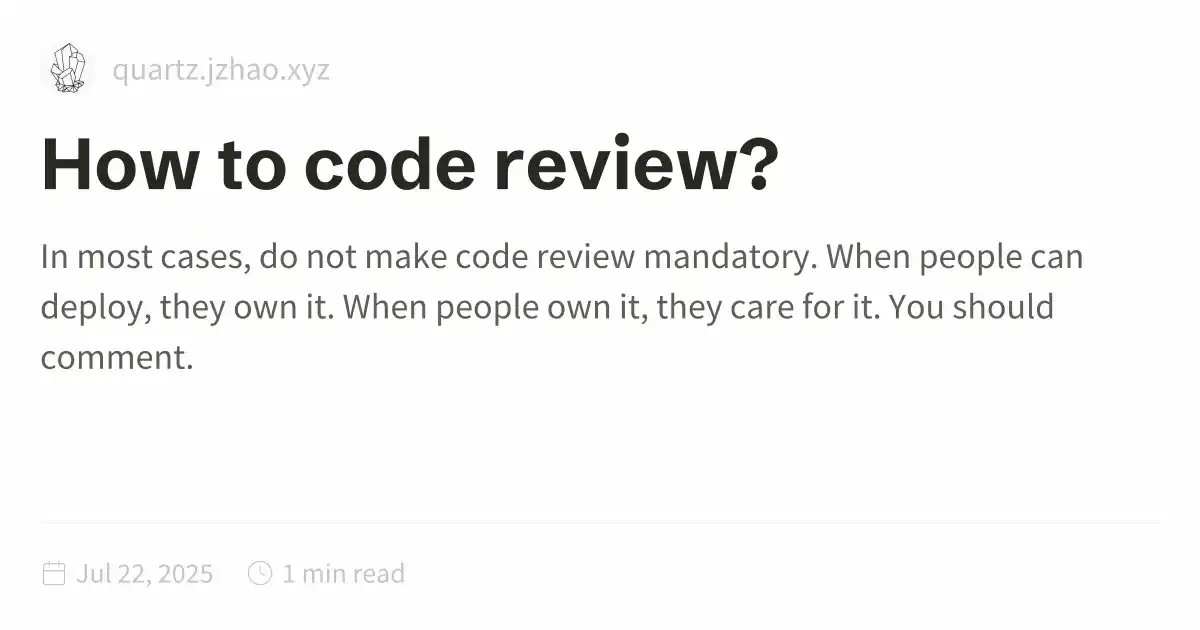
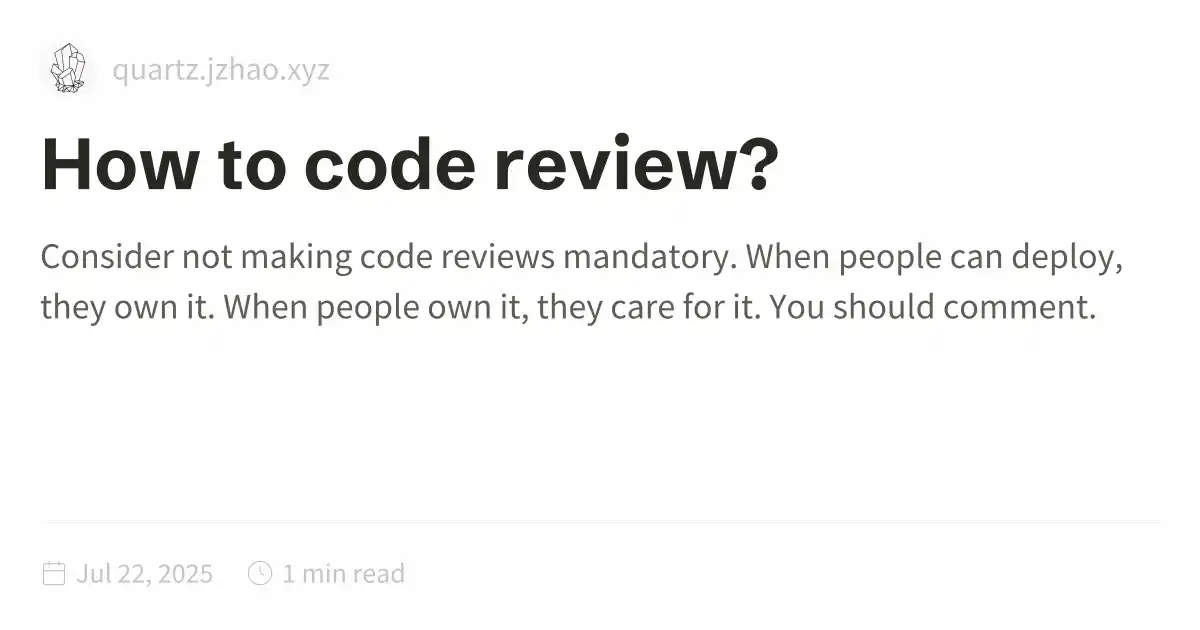
Quartz sync: Aug 19, 2025, 5:13 AM

Changed region(s): [[0.0308, 0.3921, 0.925, 0.5127], [0.0308, 0.5429, 0.1542, 0.6032]]

diff --git a/public/How-to-code-review.html b/public/How-to-code-review.html
@@ -1,5 +1,5 @@
 <!DOCTYPE html>
-<html lang="en"><head><title>How to code review?</title><meta charset="utf-8"/><link rel="preconnect" href="https://fonts.googleapis.com"/><link rel="preconnect" href="https://fonts.gstatic.com"/><link rel="stylesheet" href="https://fonts.googleapis.com/css2?family=Schibsted Grotesk:wght@400;700&amp;family=Source Sans Pro:ital,wght@0,400;0,600;1,400;1,600&amp;family=IBM Plex Mono:wght@400;600&amp;display=swap"/><link rel="preconnect" href="https://cdnjs.cloudflare.com" crossorigin="anonymous"/><meta name="viewport" content="width=device-width, initial-scale=1.0"/><meta name="og:site_name" content="Essays"/><meta property="og:title" content="How to code review?"/><meta property="og:type" content="website"/><meta name="twitter:card" content="summary_large_image"/><meta name="twitter:title" content="How to code review?"/><meta name="twitter:description" content="In most cases, do not make code review mandatory. When people can deploy, they own it. When people own it, they care for it. You should comment."/><meta property="og:description" content="In most cases, do not make code review mandatory. When people can deploy, they own it. When people own it, they care for it. You should comment."/><meta property="og:image:alt" content="In most cases, do not make code review mandatory. When people can deploy, they own it. When people own it, they care for it. You should comment."/><meta property="twitter:domain" content="quartz.jzhao.xyz"/><meta property="og:url" content="https://quartz.jzhao.xyz/How-to-code-review"/><meta property="twitter:url" content="https://quartz.jzhao.xyz/How-to-code-review"/><link rel="icon" href="./static/icon.png"/><meta name="description" content="In most cases, do not make code review mandatory. When people can deploy, they own it. When people own it, they care for it. You should comment."/><meta name="generator" content="Quartz"/><link href="./index.css" rel="stylesheet" type="text/css" spa-preserve/><style>.expand-button {
+<html lang="en"><head><title>How to code review?</title><meta charset="utf-8"/><link rel="preconnect" href="https://fonts.googleapis.com"/><link rel="preconnect" href="https://fonts.gstatic.com"/><link rel="stylesheet" href="https://fonts.googleapis.com/css2?family=Schibsted Grotesk:wght@400;700&amp;family=Source Sans Pro:ital,wght@0,400;0,600;1,400;1,600&amp;family=IBM Plex Mono:wght@400;600&amp;display=swap"/><link rel="preconnect" href="https://cdnjs.cloudflare.com" crossorigin="anonymous"/><meta name="viewport" content="width=device-width, initial-scale=1.0"/><meta name="og:site_name" content="Essays"/><meta property="og:title" content="How to code review?"/><meta property="og:type" content="website"/><meta name="twitter:card" content="summary_large_image"/><meta name="twitter:title" content="How to code review?"/><meta name="twitter:description" content="Consider not making code reviews mandatory. When people can deploy, they own it. When people own it, they care for it. You should comment."/><meta property="og:description" content="Consider not making code reviews mandatory. When people can deploy, they own it. When people own it, they care for it. You should comment."/><meta property="og:image:alt" content="Consider not making code reviews mandatory. When people can deploy, they own it. When people own it, they care for it. You should comment."/><meta property="twitter:domain" content="quartz.jzhao.xyz"/><meta property="og:url" content="https://quartz.jzhao.xyz/How-to-code-review"/><meta property="twitter:url" content="https://quartz.jzhao.xyz/How-to-code-review"/><link rel="icon" href="./static/icon.png"/><meta name="description" content="Consider not making code reviews mandatory. When people can deploy, they own it. When people own it, they care for it. You should comment."/><meta name="generator" content="Quartz"/><link href="./index.css" rel="stylesheet" type="text/css" spa-preserve/><style>.expand-button {
   position: absolute;
   display: flex;
   float: right;
@@ -116,20 +116,37 @@ pre:hover > .expand-button {
   padding: 0 12px;
   font-size: 14px;
 }
[2 lines of base64/hex data omitted]
 When people can deploy, they own it.<br/>
 When people own it, they care for it.</p>
 <p>You should comment.<br/>
-Reviewing is a chance to learn together.<br/>
-Don’t command, suggest and explain why.<br/>
-Do not comment on formatting, automate it.</p>
-<p>Make a big effort to post all comments at once.</p>
-<p>In most cases, you should approve.<br/>
-Does this change make the system better? Then approve it.<br/>
-Does this change add a feature?  Then approve it.<br/>
-Does this change fix a bug? Then approve it.<br/>
-Do not slow down productivity for an opinion.</p>
-<p>The ultimate code review catches something that would break.<br/>
+Reviewing is a chance to learn together.</p>
+<p>Suggest, don’t command.<br/>
+Explain your reasoning.<br/>
+Give examples.<br/>
+Suggest a code change.</p>
+<p>Don’t comment on formatting.<br/>
+Automate it.</p>
+<p>Batch your feedback.<br/>
+Post all comments at once.<br/>
+Context switching kills flow.</p>
+<p>Has the change been tested (even manually)?<br/>
+Approve.</p>
+<p>Does it improve the system?<br/>
+Approve.</p>
+<p>Does it add value?<br/>
+Approve.</p>
+<p>Does it fix something broken?<br/>
+Approve.</p>
+<p>Don’t block progress for style opinions.<br/>
+Perfectionism slows everyone down.</p>
+<p>Trust your team.</p>
+<p>Pick your battles.</p>
+<p>Reviews aren’t about control.<br/>
+They are about catching disasters.<br/>
+They are about learning from each other.</p>
+<p>The best reviews catch real bugs.<br/>
+Things that would actually break.<br/>
 Be a hero, find a real bug.</p></article><hr/><div class="page-footer"></div></div><div class="right sidebar"></div><div class="spacer"></div></div></div></body><script type="application/javascript">function n(){let t=this.parentElement;t.classList.toggle("is-collapsed");let e=t.getElementsByClassName("callout-content")[0];if(!e)return;let l=t.classList.contains("is-collapsed");e.style.gridTemplateRows=l?"0fr":"1fr"}function c(){let t=document.getElementsByClassName("callout is-collapsible");for(let e of t){let l=e.getElementsByClassName("callout-title")[0],s=e.getElementsByClassName("callout-content")[0];if(!l||!s)continue;l.addEventListener("click",n),window.addCleanup(()=>l.removeEventListener("click",n));let o=e.classList.contains("is-collapsed");s.style.gridTemplateRows=o?"0fr":"1fr"}}document.addEventListener("nav",c);
 </script><script type="module">function f(i,e){if(!i)return;function r(o){o.target===this&&(o.preventDefault(),o.stopPropagation(),e())}function t(o){o.key.startsWith("Esc")&&(o.preventDefault(),e())}i?.addEventListener("click",r),window.addCleanup(()=>i?.removeEventListener("click",r)),document.addEventListener("keydown",t),window.addCleanup(()=>document.removeEventListener("keydown",t))}function y(i){for(;i.firstChild;)i.removeChild(i.firstChild)}var h=class{constructor(e,r){this.container=e;this.content=r;this.setupEventListeners(),this.setupNavigationControls(),this.resetTransform()}isDragging=!1;startPan={x:0,y:0};currentPan={x:0,y:0};scale=1;MIN_SCALE=.5;MAX_SCALE=3;cleanups=[];setupEventListeners(){let e=this.onMouseDown.bind(this),r=this.onMouseMove.bind(this),t=this.onMouseUp.bind(this),o=this.resetTransform.bind(this);this.container.addEventListener("mousedown",e),document.addEventListener("mousemove",r),document.addEventListener("mouseup",t),window.addEventListener("resize",o),this.cleanups.push(()=>this.container.removeEventListener("mousedown",e),()=>document.removeEventListener("mousemove",r),()=>document.removeEventListener("mouseup",t),()=>window.removeEventListener("resize",o))}cleanup(){for(let e of this.cleanups)e()}setupNavigationControls(){let e=document.createElement("div");e.className="mermaid-controls";let r=this.createButton("+",()=>this.zoom(.1)),t=this.createButton("-",()=>this.zoom(-.1)),o=this.createButton("Reset",()=>this.resetTransform());e.appendChild(t),e.appendChild(o),e.appendChild(r),this.container.appendChild(e)}createButton(e,r){let t=document.createElement("button");return t.textContent=e,t.className="mermaid-control-button",t.addEventListener("click",r),window.addCleanup(()=>t.removeEventListener("click",r)),t}onMouseDown(e){e.button===0&&(this.isDragging=!0,this.startPan={x:e.clientX-this.currentPan.x,y:e.clientY-this.currentPan.y},this.container.style.cursor="grabbing")}onMouseMove(e){this.isDragging&&(e.preventDefault(),this.currentPan={x:e.clientX-this.startPan.x,y:e.clientY-this.startPan.y},this.updateTransform())}onMouseUp(){this.isDragging=!1,this.container.style.cursor="grab"}zoom(e){let r=Math.min(Math.max(this.scale+e,this.MIN_SCALE),this.MAX_SCALE),t=this.content.getBoundingClientRect(),o=t.width/2,n=t.height/2,c=r-this.scale;this.currentPan.x-=o*c,this.currentPan.y-=n*c,this.scale=r,this.updateTransform()}updateTransform(){this.content.style.transform=`translate(${this.currentPan.x}px, ${this.currentPan.y}px) scale(${this.scale})`}resetTransform(){this.scale=1;let e=this.content.querySelector("svg");this.currentPan={x:e.getBoundingClientRect().width/2,y:e.getBoundingClientRect().height/2},this.updateTransform()}},C=["--secondary","--tertiary","--gray","--light","--lightgray","--highlight","--dark","--darkgray","--codeFont"],E;document.addEventListener("nav",async()=>{let e=document.querySelector(".center").querySelectorAll("code.mermaid");if(e.length===0)return;E||=await import("https://cdnjs.cloudflare.com/ajax/libs/mermaid/11.4.0/mermaid.esm.min.mjs");let r=E.default,t=new WeakMap;for(let n of e)t.set(n,n.innerText);async function o(){for(let s of e){s.removeAttribute("data-processed");let a=t.get(s);a&&(s.innerHTML=a)}let n=C.reduce((s,a)=>(s[a]=window.getComputedStyle(document.documentElement).getPropertyValue(a),s),{}),c=document.documentElement.getAttribute("saved-theme")==="dark";r.initialize({startOnLoad:!1,securityLevel:"loose",theme:c?"dark":"base",themeVariables:{fontFamily:n["--codeFont"],primaryColor:n["--light"],primaryTextColor:n["--darkgray"],primaryBorderColor:n["--tertiary"],lineColor:n["--darkgray"],secondaryColor:n["--secondary"],tertiaryColor:n["--tertiary"],clusterBkg:n["--light"],edgeLabelBackground:n["--highlight"]}}),await r.run({nodes:e})}await o(),document.addEventListener("themechange",o),window.addCleanup(()=>document.removeEventListener("themechange",o));for(let n=0;n<e.length;n++){let v=function(){let g=l.querySelector("#mermaid-space"),m=l.querySelector(".mermaid-content");if(!m)return;y(m);let w=c.querySelector("svg").cloneNode(!0);m.appendChild(w),l.classList.add("active"),g.style.cursor="grab",u=new h(g,m)},M=function(){l.classList.remove("active"),u?.cleanup(),u=null},c=e[n],s=c.parentElement,a=s.querySelector(".clipboard-button"),d=s.querySelector(".expand-button"),p=window.getComputedStyle(a),L=a.offsetWidth+parseFloat(p.marginLeft||"0")+parseFloat(p.marginRight||"0");d.style.right=`calc(${L}px + 0.3rem)`,s.prepend(d);let l=s.querySelector("#mermaid-container");if(!l)return;let u=null;d.addEventListener("click",v),f(l,M),window.addCleanup(()=>{u?.cleanup(),d.removeEventListener("click",v)})}});
 </script><script src="https://cdn.jsdelivr.net/npm/katex@0.16.11/dist/contrib/copy-tex.min.js" type="application/javascript"></script><script src="./postscript.js" type="module"></script></html>

diff --git a/content/How to code review?.md b/content/How to code review?.md
@@ -2,22 +2,48 @@
 title: How to code review?
 draft:
 ---
-In most cases, do not make code review mandatory.  
+Consider not making code reviews mandatory.  
 When people can deploy, they own it.  
 When people own it, they care for it.
 
 You should comment.  
 Reviewing is a chance to learn together.  
-Don't command, suggest and explain why.  
-Do not comment on formatting, automate it.  
 
-Make a big effort to post all comments at once.
+Suggest, don't command.  
+Explain your reasoning.  
+Give examples.  
+Suggest a code change.  
 
-In most cases, you should approve.  
-Does this change make the system better? Then approve it.  
-Does this change add a feature?  Then approve it.  
-Does this change fix a bug? Then approve it.  
-Do not slow down productivity for an opinion.  
+Don't comment on formatting.  
+Automate it.  
 
-The ultimate code review catches something that would break.  
+Batch your feedback.  
+Post all comments at once.  
+Context switching kills flow.  
+
+Has the change been tested (even manually)?  
+Approve.  
+
+Does it improve the system?  
+Approve.  
+
+Does it add value?  
+Approve.  
+
+Does it fix something broken?  
+Approve.  
+
+Don't block progress for style opinions.  
+Perfectionism slows everyone down.  
+
+Trust your team.  
+
+Pick your battles.  
+
+Reviews aren't about control.  
+They are about catching disasters.  
+They are about learning from each other.  
+
+The best reviews catch real bugs.  
+Things that would actually break.  
 Be a hero, find a real bug.  
